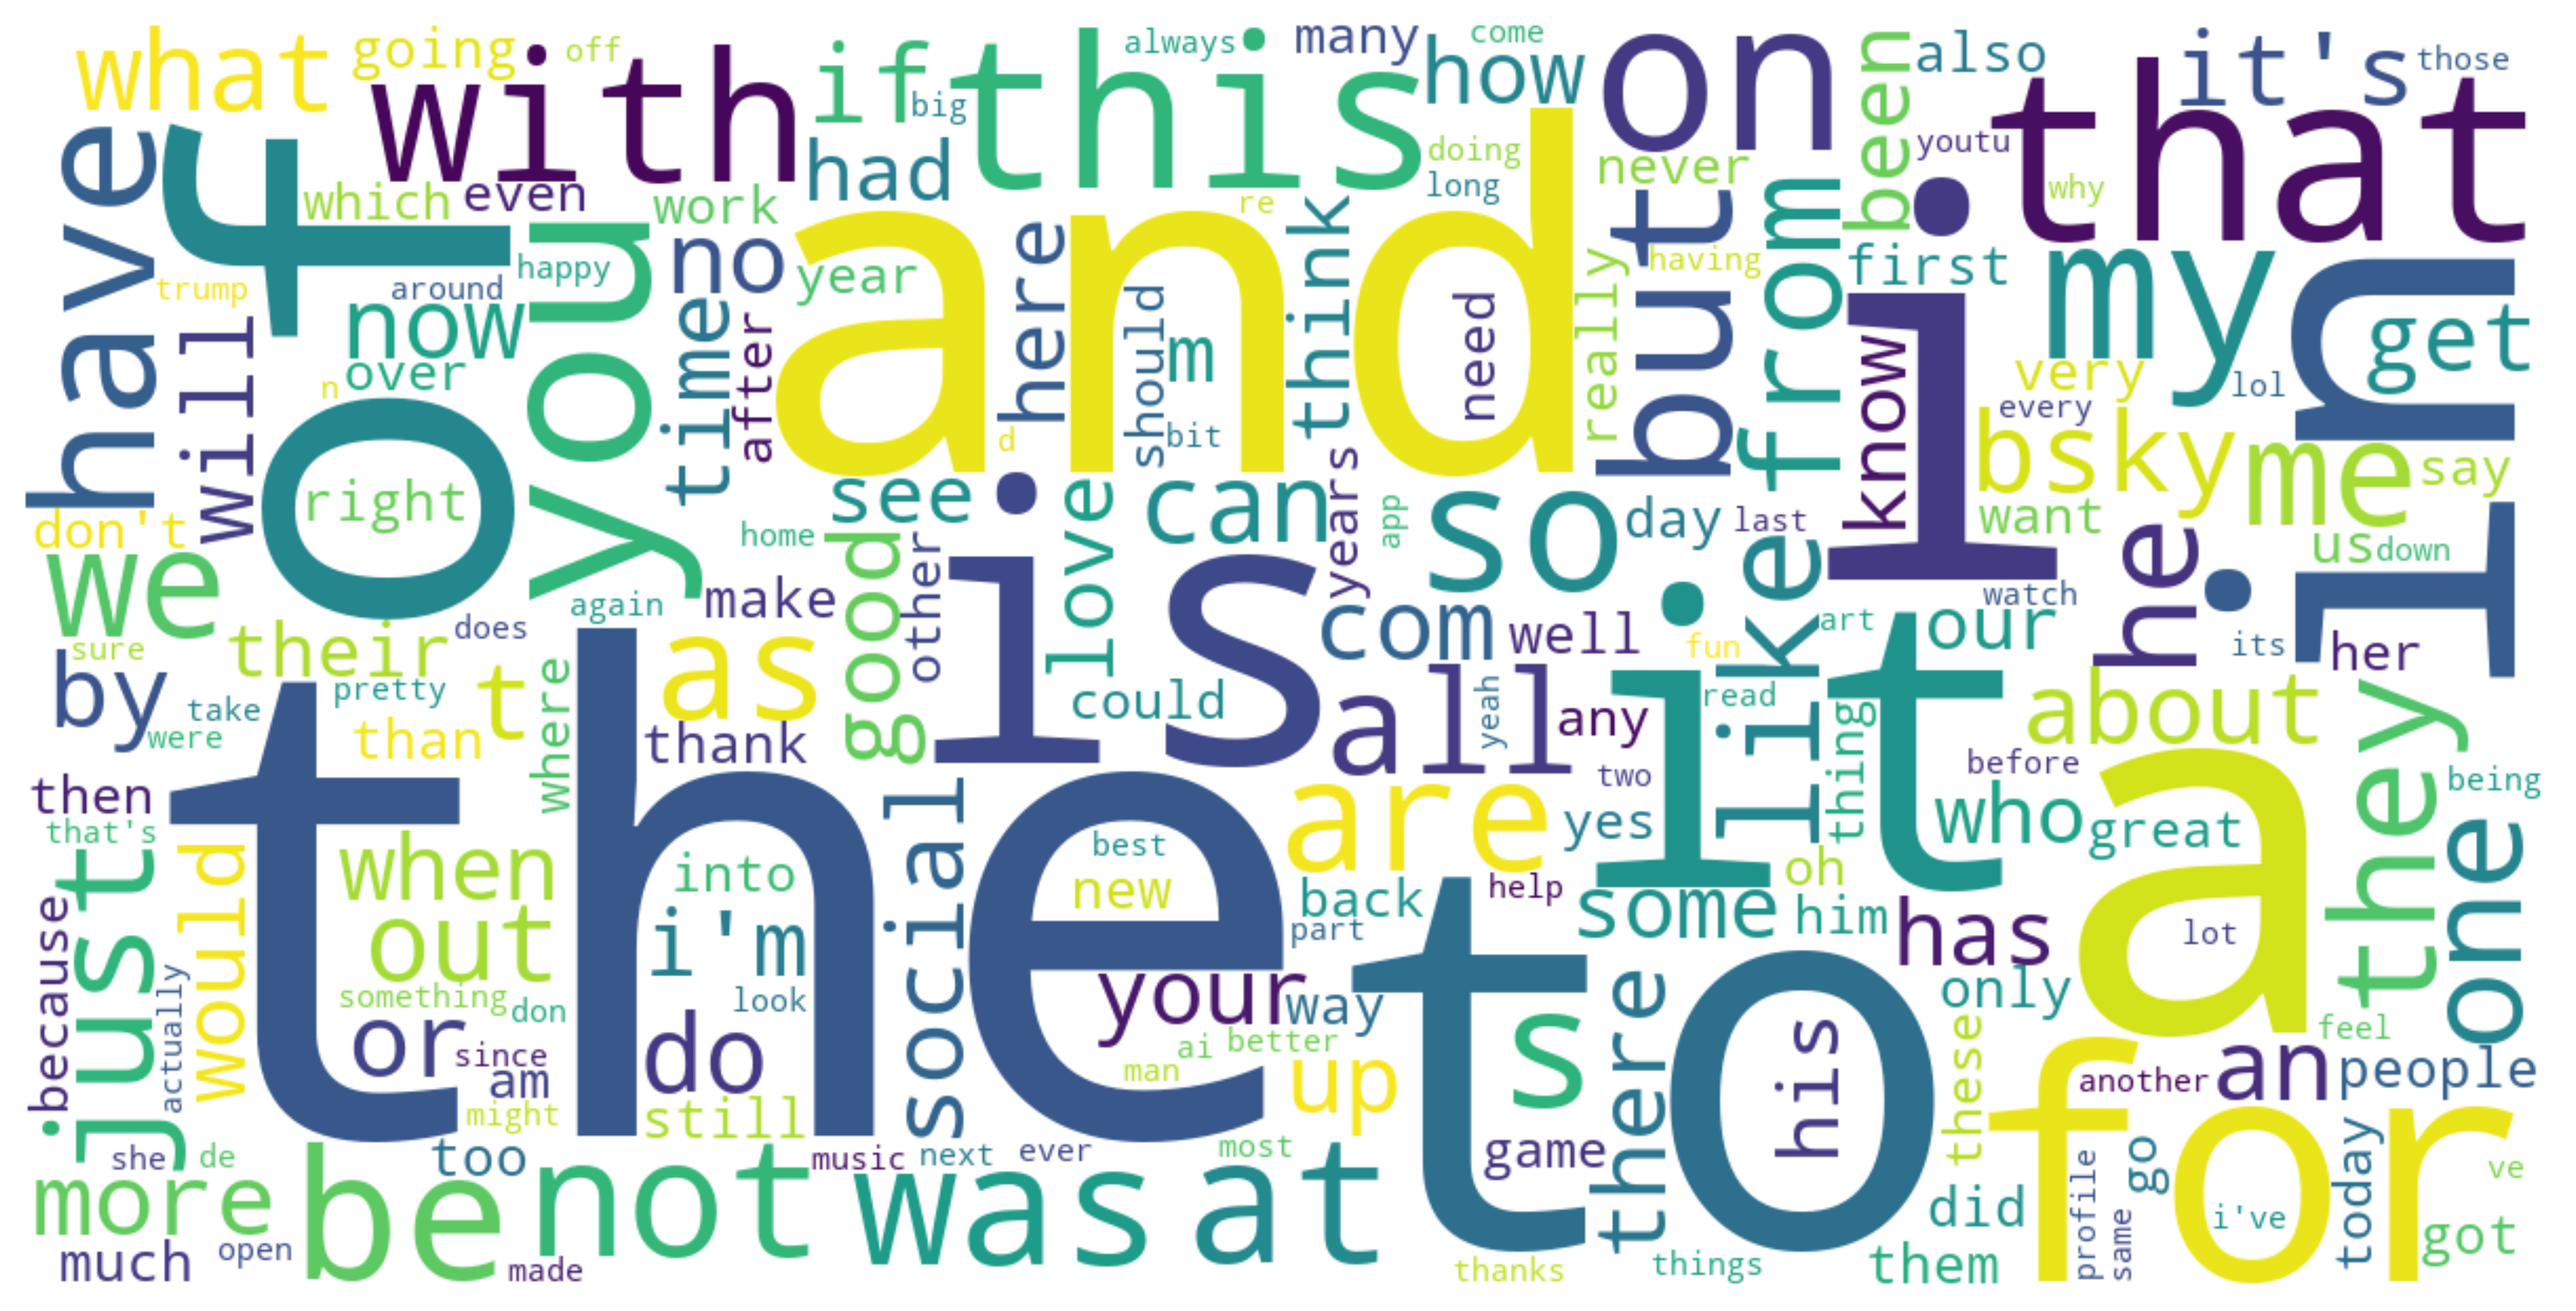
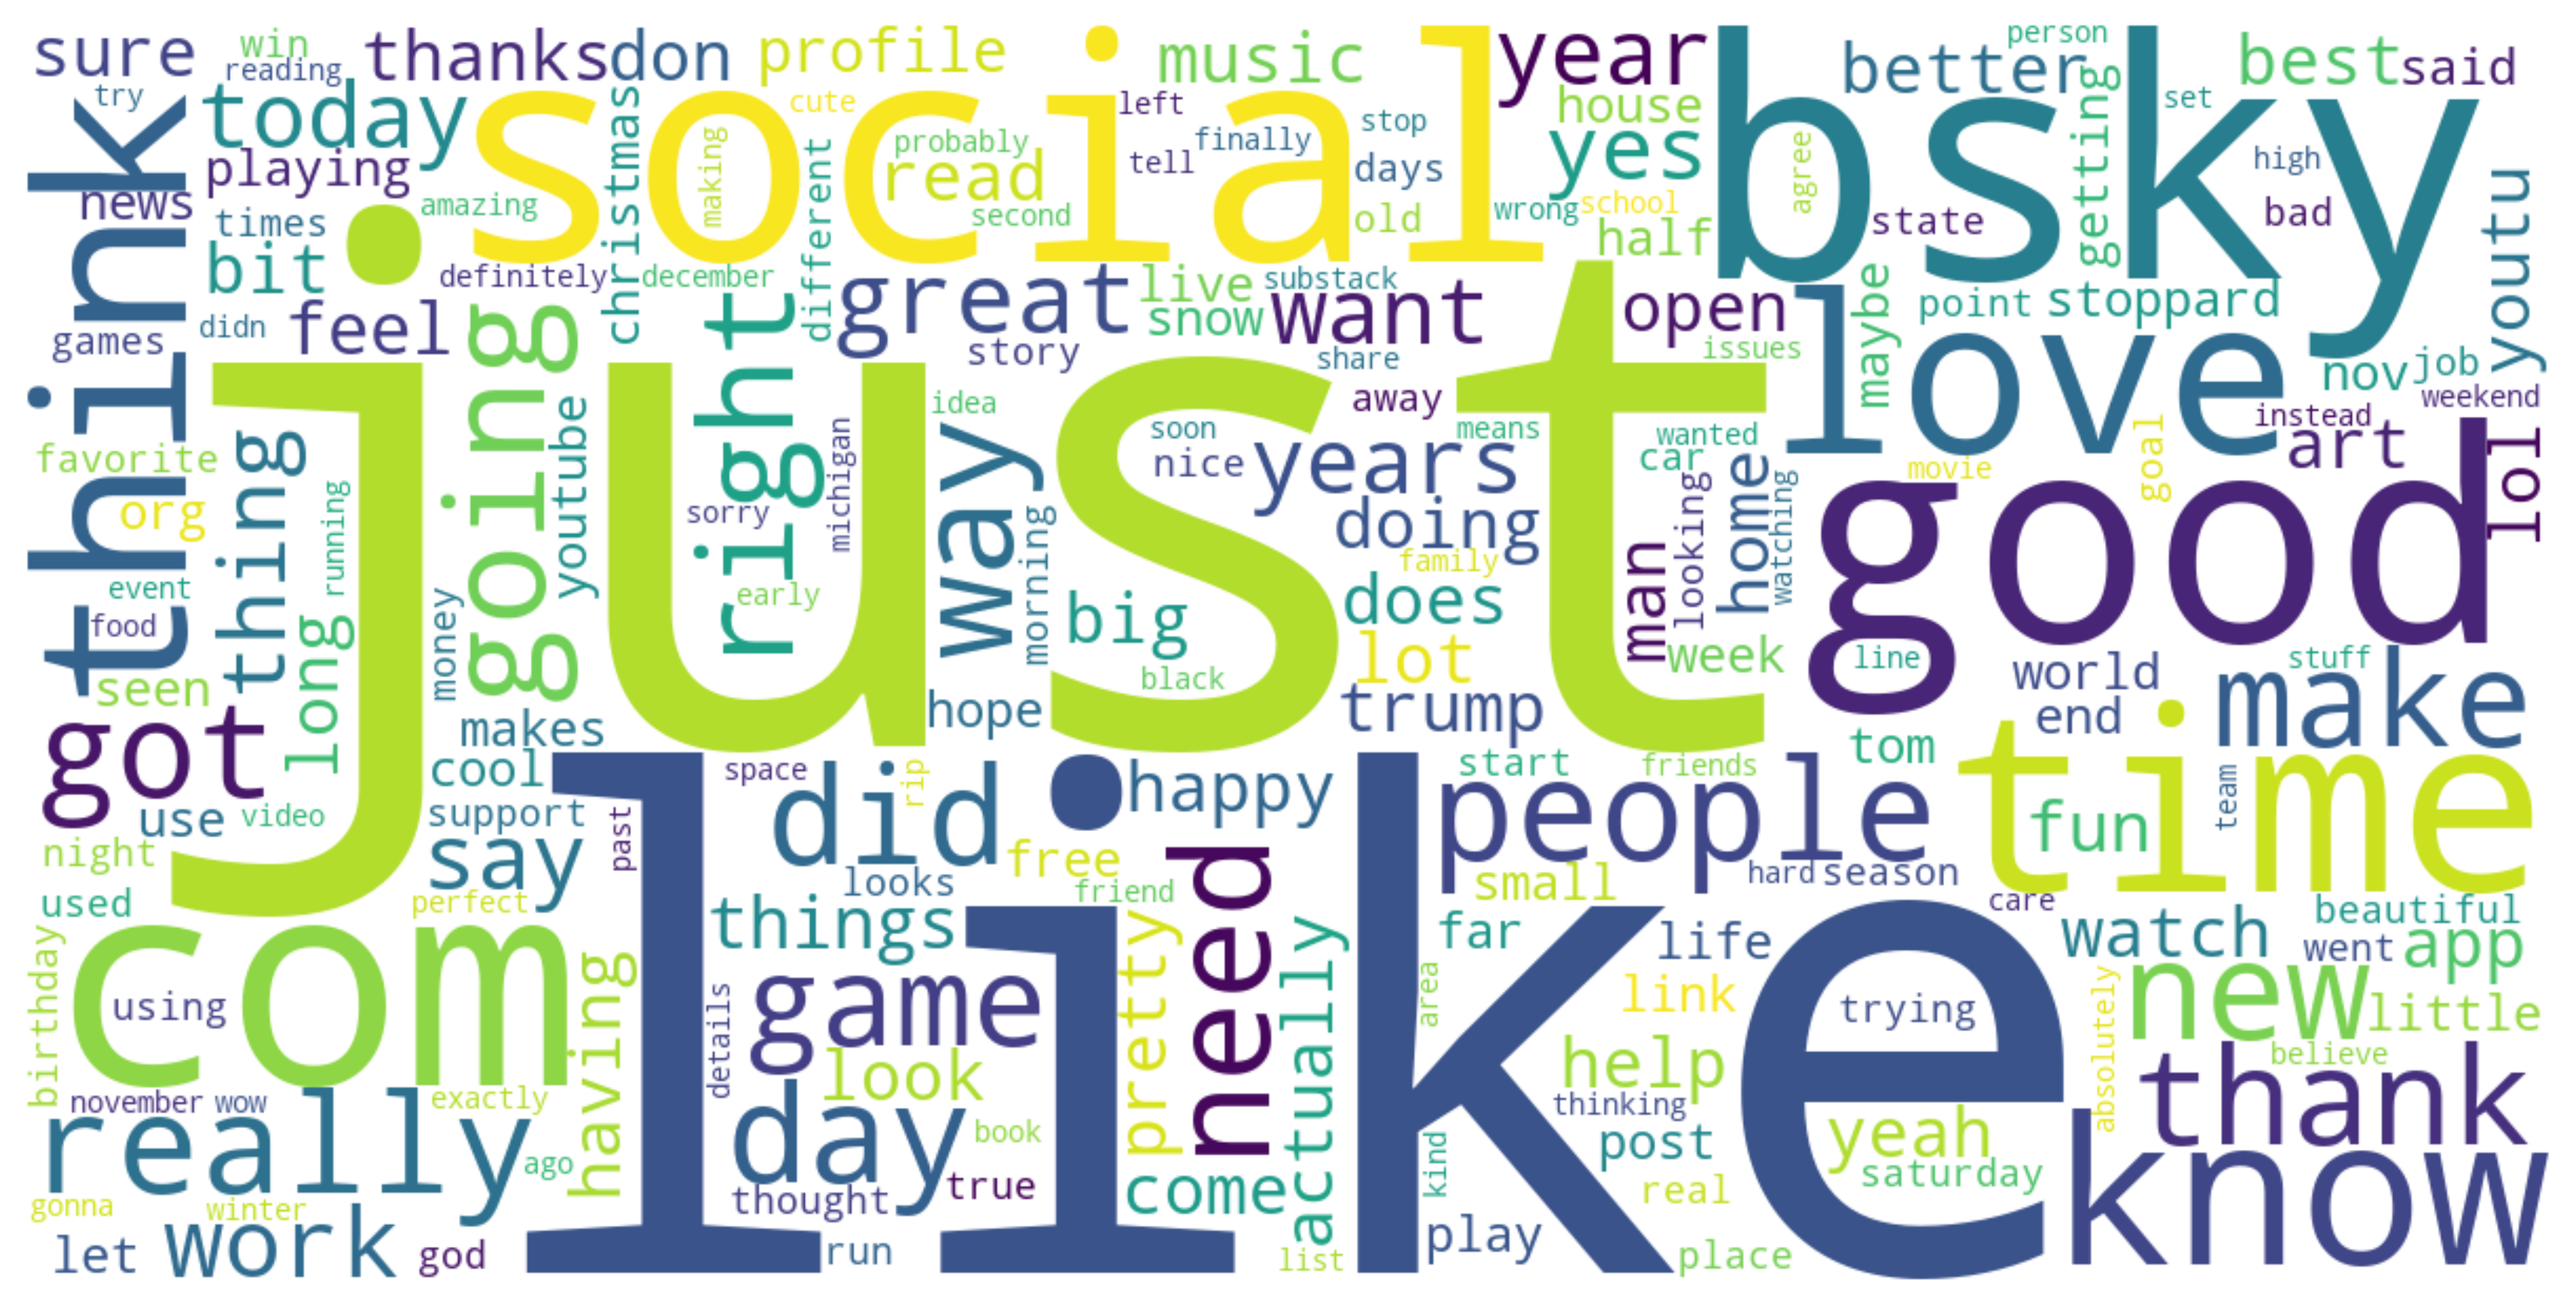
Add word clouds to README and drop stopwords from word frequencies
The toxic and low-toxicity word clouds were both dominated by "the",
"and", "a", so they looked nearly identical and the contrast they were
meant to show didn't land. The analysis notebook counted raw tokens with
no stopword filter, unlike the model notebook, which already passed
stop_words="english" to the vectorizer.

Filters ENGLISH_STOP_WORDS plus common contractions, which leaves
profanity dominating the toxic cloud (fuck 74, shit 68, fucking 65) and
ordinary conversation in the low-toxicity one (just, bsky, good, love).
Regenerates both clouds and the top-15 barplot, and surfaces the pair in
the README under Findings.

Only these three plots depend on the word counts; the toxicity
statistics, reply comparison, length correlation, and model metrics are
unchanged.

diff --git a/README.md b/README.md
@@ -56,6 +56,20 @@ Bluesky Firehose (websocket)
   <img src="plots/most_common_toxic_words_barplot.png" width="49%">
 </p>
 
+### Toxic vs. ordinary vocabulary
+
+Word clouds over the two ends of the distribution — posts scoring **≥ 0.7** against posts scoring **< 0.1**.
+
+**Highly toxic posts (≥ 0.7)**
+
+![Most common words in highly toxic posts](plots/most_common_toxic_words.png)
+
+**Low-toxicity posts (< 0.1)**
+
+![Most common words in low-toxicity posts](plots/least_toxic_common_words.png)
+
+Stopwords are removed from both, so what remains is the vocabulary that actually separates them. Profanity dominates the toxic cloud — *fuck* (74), *shit* (68), *fucking* (65), *ass*, *stupid*, *asshole* — and is entirely absent below it, where the most frequent terms are ordinary conversation: *good*, *love*, *time*, *thank*, *new*, *happy*.
+
 ## Model
 
 TF-IDF (20,000 features, unigrams + bigrams, English stopwords removed) → Ridge regression (`alpha=1.0`), 80/20 split.
